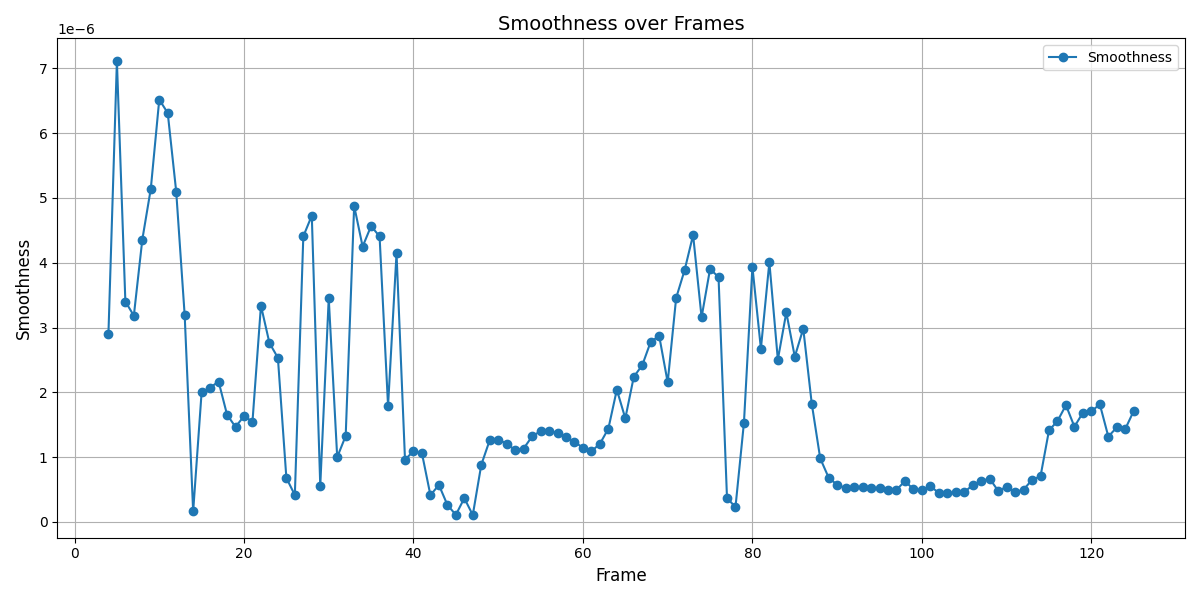
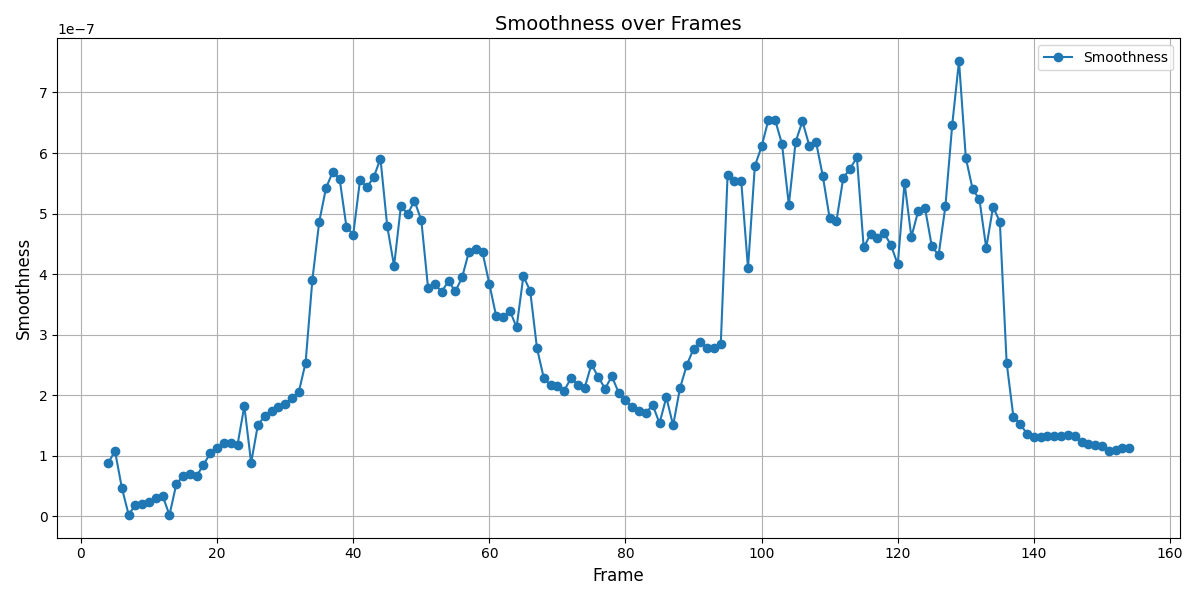
Update plot_line.py to load smoothness data from the abnormal directory

diff --git a/main/exp/exp2/rec/plot_line.py b/main/exp/exp2/rec/plot_line.py
@@ -54,7 +54,7 @@ def plot_dcr_and_jad(data):
 
 if __name__ == '__main__':
     # Load the data
-    smoothness_data = pd.read_csv('./walk/normal/smoothness_values.csv')
+    smoothness_data = pd.read_csv('./walk/abnormal/smoothness_values.csv')
     # smoothness_data drop first row
     smoothness_data = smoothness_data.drop(0)
     dcr_data = pd.read_csv('./walk/normal/dcr_values.csv')
